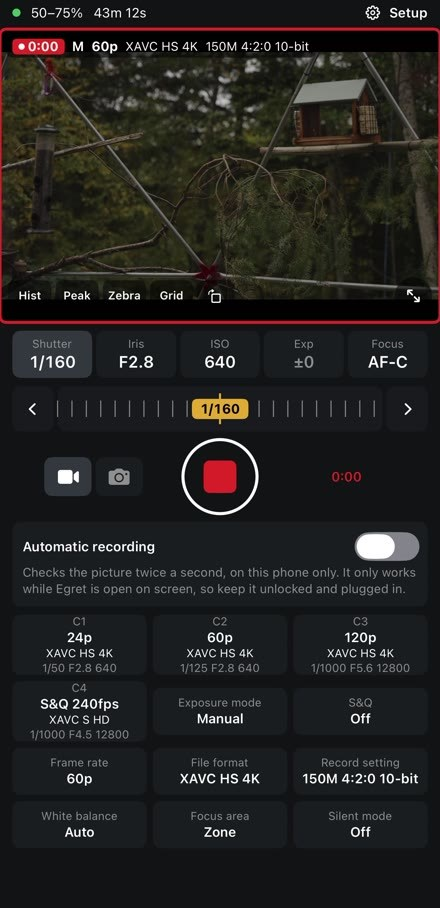
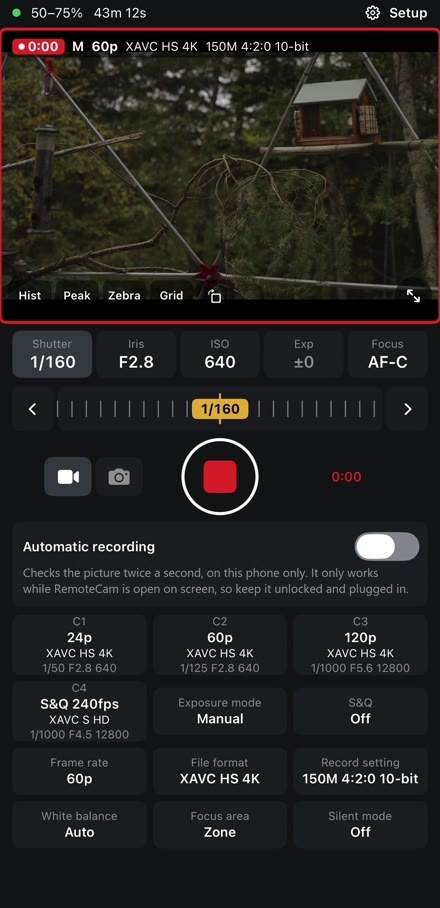
Website: RemoteCam 1.0.13, Tailscale, speed tests and real auto-recording takes
- Hero: the detected download button plus separate Download for Windows,
  Download for Mac and "iPhone: coming to TestFlight" buttons. Version 1.0.13.
- The iPhone app is "coming to TestFlight" everywhere instead of a free beta.
- Automatic recording shows three real takes from Nov 5 (animal, bird,
  person), each started and stopped by the app.
- Run it from anywhere: Tailscale ("install it on each device, log in, and
  it's automatic"), the iPhone joining the computer's camera, the 400 ft
  Ethernet setup, and phone control.
- New "How fast is the picture?" section with the measured numbers: 0.20 s on
  the same Wi-Fi, about 0.33 s over 400 ft of Ethernet, about 0.25 s a picture
  over a hotspot and Tailscale at 1 a second by default, and the Tailscale
  clock test. The old "~20 fps" claims now use the measured numbers.
- Send log, MIT licence, Sony's SDK and the A9 II confirmation in the trust
  section and specs.
- Images cleaned: the window's title bar and two iPhone screens said Egret
  and now say RemoteCam; the Tailscale frame's address is blanked.

Changed region(s): [[0.0591, 0.6167, 0.9455, 0.6784]]

diff --git a/site/index.html b/site/index.html
@@ -117,7 +117,7 @@
   <div class="wrap hero-copy">
     <a class="pill reveal" href="#iphone">
       <span class="pill-dot"></span>
-      <span>Version <span data-version></span> is out<span class="hide-sm"> · iPhone &amp; iPad beta on TestFlight</span></span>
+      <span>Version <span data-version></span> is out<span class="hide-sm"> · iPhone app coming to TestFlight</span></span>
       <svg class="ic"><use href="#i-arrow"/></svg>
     </a>
     <h1 class="reveal">Run your Sony camera<br><span class="grad">from anywhere.</span></h1>
@@ -129,7 +129,12 @@
       <a class="btn btn-ghost btn-lg" data-dl="secondary" href="#download"><span>All downloads</span></a>
       <a class="btn btn-text btn-lg" href="#watch"><svg class="ic"><use href="#i-play"/></svg><span>Watch the video</span></a>
     </div>
-    <p class="fine reveal" id="heroFine">Free and open source. No account, no subscription, no tracking.</p>
+    <div class="quick-dl reveal" aria-label="Downloads">
+      <a class="qd" data-dl="windows" href="#download"><svg class="ic"><use href="#i-windows"/></svg>Download for Windows</a>
+      <a class="qd" data-dl="macApple" href="#download"><svg class="ic"><use href="#i-apple"/></svg>Download for Mac</a>
+      <a class="qd qd-soon" href="#iphone"><svg class="ic"><use href="#i-phone"/></svg>iPhone: coming to TestFlight</a>
+    </div>
+    <p class="fine reveal" id="heroFine">Free and open source. No account, no subscription, no tracking. Tested on the A7S III.</p>
   </div>
 
   <div class="wrap hero-stage">
@@ -138,7 +143,7 @@
         <img src="assets/window.jpg" width="1760" height="946" alt="The app recording a backyard feeder: a woodpecker on the suet with the camera's tracking box around it, REC 00:02:32 at the top left, the grid and zebras on, the histogram in the corner, and the Video tab on the right with Stop, four saved setups, exposure and focus.">
       </figure>
       <div class="chip-float c1" aria-hidden="true"><span class="rec-dot"></span>REC <b class="mono" id="heroRec">00:02:32</b></div>
-      <div class="chip-float c2" aria-hidden="true"><svg class="ic"><use href="#i-wifi"/></svg>Live view · <b>~20 fps</b></div>
+      <div class="chip-float c2" aria-hidden="true"><svg class="ic"><use href="#i-wifi"/></svg>Live view · <b>0.20 s</b></div>
       <div class="chip-float c3" aria-hidden="true"><svg class="ic"><use href="#i-bird"/></svg>Bird seen · recording</div>
       <div class="chip-float c4" aria-hidden="true"><svg class="ic"><use href="#i-pin"/></svg>Across town</div>
     </div>
@@ -148,8 +153,8 @@
     <ul class="ribbon reveal" aria-label="Where it runs">
       <li><svg class="ic"><use href="#i-windows"/></svg><span><b>Windows 11</b>x64</span></li>
       <li><svg class="ic"><use href="#i-apple"/></svg><span><b>macOS 14.1+</b>Apple &amp; Intel</span></li>
-      <li><svg class="ic"><use href="#i-phone"/></svg><span><b>iPhone</b>free beta</span></li>
-      <li><svg class="ic"><use href="#i-laptop"/></svg><span><b>iPad</b>free beta</span></li>
+      <li><svg class="ic"><use href="#i-phone"/></svg><span><b>iPhone</b>coming to TestFlight</span></li>
+      <li><svg class="ic"><use href="#i-laptop"/></svg><span><b>iPad</b>coming to TestFlight</span></li>
       <li><svg class="ic"><use href="#i-camera"/></svg><span><b>Sony cameras</b>over Wi-Fi</span></li>
     </ul>
   </div>
@@ -181,7 +186,7 @@
 <!-- ============================== NUMBERS ============================== -->
 <section class="numbers" aria-label="In numbers">
   <div class="wrap nums">
-    <div class="num reveal"><b><small>~</small><span data-count="20">20</span></b><span>pictures a second over Wi-Fi on the A7S III</span></div>
+    <div class="num reveal"><b>0.20<small>s</small></b><span>from camera to screen on the same Wi-Fi</span></div>
     <div class="num reveal"><b><span data-count="240">240</span><small>fps</small></b><span>S&amp;Q slow motion, in HD</span></div>
     <div class="num reveal"><b><span data-count="9999" data-sep="1">9,999</span></b><span>photos in one time-lapse</span></div>
     <div class="num reveal"><b><span data-count="8">8</span><small>min</small></b><span>long exposures, held open on Bulb</span></div>
@@ -303,7 +308,7 @@
           </div>
         </aside>
       </div>
-      <p class="lab-foot">A model in your browser, not a camera. In the app these come from the A7S III over Wi-Fi, at around 20 pictures a second.</p>
+      <p class="lab-foot">A model in your browser, not a camera. In the app these come from the A7S III over Wi-Fi, about 8 pictures a second.</p>
     </div>
 
     <!-- Peaking: the real thing -->
@@ -569,15 +574,26 @@
     </div>
 
     <div class="trio trio-sm">
-      <div class="card flat reveal"><svg class="ic"><use href="#i-cpu"/></svg><p><b>Runs on your computer.</b> No pictures leave it.</p></div>
+      <div class="card flat reveal"><svg class="ic"><use href="#i-cpu"/></svg><p><b>Runs on your own computer.</b> No pictures leave it. The iPhone app runs its own, on the phone.</p></div>
       <div class="card flat reveal"><svg class="ic"><use href="#i-bird"/></svg><p><b>Knows birds, common mammals and people.</b> Something it doesn't know, like a squirrel, may not set it off.</p></div>
       <div class="card flat reveal"><svg class="ic"><use href="#i-shield"/></svg><p><b>Learns to ignore</b> a spot that keeps setting it off, like splashing water, for 10 minutes.</p></div>
     </div>
 
-    <figure class="shot shot-wide reveal">
-      <img src="assets/automatic-recording.jpg" width="1760" height="875" loading="lazy" alt="Automatic recording in the app: a green box labelled animal around the egret, a red recording outline, REC 00:00:09 at the top left, and Animal, 15 s and Focus on it picked on the right.">
-      <figcaption>The real thing: it has spotted the egret, started recording, and put a red outline around the picture.</figcaption>
-    </figure>
+    <div class="moments reveal">
+      <figure class="moment">
+        <img src="assets/auto-animal.jpg" width="324" height="360" loading="lazy" alt="The app recording by itself with Animal picked: REC 00:00:10, a box on an animal by the feeder, and Stop lit on the Video tab.">
+        <figcaption><b>Animal</b>Started by itself, 10 s in</figcaption>
+      </figure>
+      <figure class="moment">
+        <img src="assets/auto-bird.jpg" width="324" height="360" loading="lazy" alt="The app recording by itself with Bird picked: REC 00:01:09 and a box on a small bird at the feeder.">
+        <figcaption><b>Bird</b>Still rolling, a minute in</figcaption>
+      </figure>
+      <figure class="moment">
+        <img src="assets/auto-person.jpg" width="324" height="360" loading="lazy" alt="The app recording by itself with Person picked: a person walks up to the camera, with a green box around them and REC 00:00:05.">
+        <figcaption><b>Person</b>Walks in, recording starts</figcaption>
+      </figure>
+    </div>
+    <p class="center fine reveal">Real takes from one morning at the feeder, each started and stopped by the app. The camera is on its side here, so the picture stands upright.</p>
   </div>
 </section>
 
@@ -615,19 +631,67 @@
 
     <div class="duo">
       <article class="card glass reveal">
+        <svg class="ic ic-lg"><use href="#i-globe"/></svg>
+        <h3>From anywhere, with Tailscale</h3>
+        <p>Put the camera on your iPhone's hotspot and run it from a computer anywhere. <b>Download <a href="https://tailscale.com" rel="noopener">Tailscale</a> on each device, log in with the same account, and it's automatic.</b> Your devices find each other, with nothing to type.</p>
+        <p class="fine">Over mobile data the picture comes once a second by default, to save data: about 100 MB an hour while a computer is watching. Pick 3 or 8 a second on the phone for a smoother picture (about 280 or 750 MB an hour). The iPhone app has to stay open on screen.</p>
+      </article>
+      <article class="card glass reveal">
         <svg class="ic ic-lg"><use href="#i-phone"/></svg>
-        <h3>From your phone</h3>
-        <p>Tick <b>Allow phone control</b> in <b>Setup</b> and open the address it shows on your phone. You get the live picture, record, tap to focus, the focus ring and the camera's settings. It works on your home Wi-Fi, and from anywhere with <a href="https://tailscale.com" rel="noopener">Tailscale</a>.</p>
-        <p class="fine">Protected by an access code. The computer stays on with the app open. On an iPhone, Share › Add to Home Screen makes it a full-screen app.</p>
+        <h3>Your iPhone joins the computer's camera</h3>
+        <p>When <span class="nm"></span> on your computer is running the camera, the iPhone and iPad find it and show the camera through it, with nothing to type. Using the computer's camera means using its automatic recording too.</p>
+        <p class="fine">Or turn it round: in the iPhone app, turn on <b>Let my other devices join</b>, and an iPad or a computer runs the camera through the phone.</p>
+      </article>
+      <article class="card glass reveal">
+        <svg class="ic ic-lg"><use href="#i-desktop"/></svg>
+        <h3>400 ft away, on a cable</h3>
+        <p>Camera at the house on its Wi-Fi, computer 400 ft away at the end of a long Ethernet cable. The picture still arrives in about a third of a second, about 9 times a second.</p>
+        <p class="fine">Anything on the same network works: Wi-Fi, a cable, or both.</p>
       </article>
       <article class="card glass reveal">
         <svg class="ic ic-lg"><use href="#i-laptop"/></svg>
-        <h3>From a computer, through your iPhone</h3>
-        <p>No Wi-Fi where the camera is? Put it on your iPhone's hotspot, open the iPhone app, turn on <b>Allow control from a computer</b>, and run it from a computer somewhere else over Tailscale.</p>
-        <p class="fine">Uses mobile data: about 100, 280 or 750 MB an hour while a computer is watching, at 1, 3 or 8 pictures a second. Nothing while none is. It only works while the app stays open on the iPhone's screen.</p>
+        <h3>From your phone's browser</h3>
+        <p>Tick <b>Allow phone control</b> in <b>Setup</b> and open the address it shows on your phone. You get the live picture, record, tap to focus, the focus ring and the camera's settings, at home or over Tailscale.</p>
+        <p class="fine">Protected by an access code. The computer stays on with the app open. On an iPhone, Share › Add to Home Screen makes it a full-screen app.</p>
       </article>
     </div>
     <p class="rule reveal"><b>Two rules behind it all:</b> the camera is on one network at a time, and one device runs it while the others join in.</p>
+  </div>
+</section>
+
+<!-- ============================== SPEED ============================== -->
+<section class="section" id="speed">
+  <div class="wrap">
+    <div class="head center reveal">
+      <p class="eyebrow"><span class="dot dot-ok"></span>How fast is the picture?</p>
+      <h2>Measured with a clock, not a guess.</h2>
+      <p class="sub">An iPad shows the computer's clock. The camera films it, and the computer shows both. The gap between them is how long the picture took.</p>
+    </div>
+    <div class="speeds">
+      <article class="speed reveal">
+        <p class="speed-where"><svg class="ic"><use href="#i-wifi"/></svg>Same Wi-Fi</p>
+        <b class="speed-num">0.20<small>s</small></b>
+        <p>about 8 pictures a second</p>
+        <p class="fine">Camera and computer on the same router. Median of 24 readings.</p>
+      </article>
+      <article class="speed reveal">
+        <p class="speed-where"><svg class="ic"><use href="#i-desktop"/></svg>400 ft of Ethernet</p>
+        <b class="speed-num"><small>≈</small>0.33<small>s</small></b>
+        <p>about 9 pictures a second</p>
+        <p class="fine">Camera on the house Wi-Fi, computer at the end of the cable. A spot reading.</p>
+      </article>
+      <article class="speed reveal">
+        <p class="speed-where"><svg class="ic"><use href="#i-globe"/></svg>Hotspot + Tailscale</p>
+        <b class="speed-num"><small>≈</small>0.25<small>s</small></b>
+        <p>1 picture a second, or 3 or 8</p>
+        <p class="fine">Camera on the iPhone's hotspot in the woods, computer elsewhere. Each picture takes about 0.25 s; it comes once a second by default to save mobile data.</p>
+      </article>
+    </div>
+    <figure class="shot shot-wide reveal">
+      <img src="assets/tailscale-latency.jpg" width="1920" height="1080" loading="lazy" alt="The app on a computer running a camera in the woods over Tailscale: the computer's clock reads 14:21:46.81 above the picture, and in the picture someone holds up an iPad showing 14:21:45.77.">
+      <figcaption>The Tailscale test. This picture reached the computer just after 14:21:46.0 showing 45.77 on the iPad, so it was about 0.25 s on the way. At 1 a second it then stays on screen until the next one, which is why the clocks here are a second apart.</figcaption>
+    </figure>
+    <p class="center fine reveal"><b>The camera's own recording is always full quality.</b> These numbers are only for the preview you watch.</p>
   </div>
 </section>
 
@@ -636,14 +700,14 @@
   <div class="wrap">
     <div class="ios">
       <div class="ios-copy reveal">
-        <p class="eyebrow"><span class="dot"></span>iPhone &amp; iPad · free beta</p>
+        <p class="eyebrow"><span class="dot"></span>iPhone &amp; iPad · coming to TestFlight</p>
         <h2>No computer at all.<br>Just your phone and its hotspot.</h2>
-        <p class="sub"><span class="nm"></span> for iPhone and iPad runs the camera on its own, out where there's no Wi-Fi. It's a free beta on TestFlight, Apple's app for testing, before it comes to the App Store.</p>
+        <p class="sub"><span class="nm"></span> for iPhone and iPad runs the camera on its own, out where there's no Wi-Fi. It isn't out yet: it'll come to TestFlight, Apple's app for testing, first, and to the App Store later.</p>
         <ul class="chips">
-          <li>Live picture</li><li>Tap to focus</li><li>Exposure</li><li>Video</li><li>S&amp;Q</li><li>Photos</li><li>Burst</li><li>Time-lapse</li><li>C1 to C4</li><li>Automatic recording</li><li>Hand it to a computer</li>
+          <li>Live picture</li><li>Tap to focus</li><li>Exposure</li><li>Video</li><li>S&amp;Q</li><li>Photos</li><li>Burst</li><li>Time-lapse</li><li>C1 to C4</li><li>Automatic recording: animal, bird or person</li><li>Joins your computer's camera</li><li>Hand it to a computer</li>
         </ul>
         <div class="cta">
-          <a class="btn btn-primary btn-lg" data-link="testflight" href="#"><svg class="ic"><use href="#i-apple"/></svg><span>Join the free beta</span></a>
+          <a class="btn btn-primary btn-lg" data-link="testflight" href="#"><svg class="ic"><use href="#i-apple"/></svg><span>Coming to TestFlight</span></a>
         </div>
         <p class="fine">iOS and iPadOS 16 or newer. Photos and video stay on the camera's card. It only works while the app is open on screen, so keep the phone plugged in for long sessions. Close the app on your computer first: the camera takes one remote at a time.</p>
       </div>
@@ -675,8 +739,8 @@
       <article class="tile t-wide reveal"><svg class="ic"><use href="#i-camera"/></svg><h3>Shoot photos</h3><p>Single shots, bursts, self-timer, brackets, time-lapses and long exposures, saved to your card, your computer or both.</p></article>
       <article class="tile reveal"><svg class="ic"><use href="#i-sliders"/></svg><h3>Set up the camera</h3><p>Video format, frame rate, Super 35 crop, RAW or JPEG, white balance, audio and more, without a menu.</p></article>
       <article class="tile reveal"><svg class="ic"><use href="#i-cards"/></svg><h3>Use both cards</h3><p>See what's left on each slot, and format a card from the app. It asks first.</p></article>
-      <article class="tile t-wide reveal"><svg class="ic"><use href="#i-globe"/></svg><h3>Run it from anywhere</h3><p>Phone control at home or over Tailscale, and a computer through the iPhone app.</p></article>
-      <article class="tile t-wide reveal"><svg class="ic"><use href="#i-bird"/></svg><h3>Film wildlife</h3><p>Automatic recording starts and stops for animals, birds or people.</p></article>
+      <article class="tile t-wide reveal"><svg class="ic"><use href="#i-globe"/></svg><h3>Run it from anywhere</h3><p>Phone control at home or over Tailscale, a computer through the iPhone's hotspot, or 400 ft of cable. Install Tailscale, log in, and it's automatic.</p></article>
+      <article class="tile t-wide reveal"><svg class="ic"><use href="#i-bird"/></svg><h3>Film wildlife</h3><p>Automatic recording starts and stops for animals, birds or people, and focuses on them. It runs on your computer; no pictures leave it.</p></article>
       <article class="tile reveal"><svg class="ic"><use href="#i-battery"/></svg><h3>Stay informed</h3><p>Battery and card warnings before you run out.</p></article>
       <article class="tile reveal"><svg class="ic"><use href="#i-wifi"/></svg><h3>Stop worrying</h3><p>Reconnects by itself, and the camera keeps recording if Wi-Fi drops.</p></article>
       <article class="tile t-wide reveal"><svg class="ic"><use href="#i-send"/></svg><h3>Get help</h3><p><b>Send log to the developer</b> in Setup, one click, only when you press it.</p></article>
@@ -733,11 +797,11 @@
         <span class="you">Your device</span>
         <svg class="ic plat-ic"><use href="#i-phone"/></svg>
         <h3>iPhone &amp; iPad</h3>
-        <p class="req">iOS 16 or newer · free beta</p>
+        <p class="req">iOS 16 or newer · not out yet</p>
         <a class="btn btn-primary" data-link="testflight" href="#"><svg class="ic"><use href="#i-apple"/></svg>Join on TestFlight</a>
         <details>
           <summary>What's TestFlight?</summary>
-          <p>Apple's free app for trying apps before they reach the App Store. Install TestFlight, open the invite link, and tap <b>Install</b>. The App Store version comes later.</p>
+          <p>Apple's free app for trying apps before they reach the App Store. The iPhone app goes there first: once it's ready, install TestFlight, open the invite link and tap <b>Install</b>.</p>
         </details>
       </article>
     </div>
@@ -873,21 +937,23 @@
       <div class="card flat reveal"><svg class="ic ic-lg"><use href="#i-user-off"/></svg><h3>No account</h3><p>Nothing to sign up for. Open it and connect.</p></div>
       <div class="card flat reveal"><svg class="ic ic-lg"><use href="#i-shield"/></svg><h3>No tracking</h3><p>No analytics in the app, and none on this page either: no cookies, nothing loaded from anyone else.</p></div>
       <div class="card flat reveal"><svg class="ic ic-lg"><use href="#i-key"/></svg><h3>Your password stays put</h3><p>In Windows Credential Manager or your Mac's Keychain.</p></div>
+      <div class="card flat reveal"><svg class="ic ic-lg"><use href="#i-send"/></svg><h3>Help when you ask</h3><p><b>Send log</b> in Setup sends what went wrong, only when you press it. No passwords, photos or video.</p></div>
       <div class="card flat reveal"><svg class="ic ic-lg"><use href="#i-cpu"/></svg><h3>Detection runs locally</h3><p>The animal detector runs on your own computer or phone.</p></div>
-      <div class="card flat reveal"><svg class="ic ic-lg"><use href="#i-code"/></svg><h3>Open source</h3><p>Read every line on <a data-link="github" href="#">GitHub</a>, and build it yourself if you like.</p></div>
+      <div class="card flat reveal"><svg class="ic ic-lg"><use href="#i-code"/></svg><h3>Open source</h3><p>MIT licensed. Read every line on <a data-link="github" href="#">GitHub</a>, and build it yourself if you like.</p></div>
     </div>
 
     <details class="specs reveal">
       <summary>Specifications</summary>
       <dl>
         <dt>Computer</dt><dd>Windows 11 x64, or macOS 14.1 or newer on Apple or Intel. Windows on ARM and Linux aren't supported.</dd>
-        <dt>iPhone and iPad</dt><dd>iOS and iPadOS 16 or newer. Free beta on TestFlight.</dd>
+        <dt>iPhone and iPad</dt><dd>iOS and iPadOS 16 or newer. Coming to TestFlight first.</dd>
         <dt>Connection</dt><dd>Wi-Fi on the same network as the camera, with an optional HDMI capture card for the picture.</dd>
-        <dt>Wi-Fi live view</dt><dd>1024×576 at around 20 frames a second on the A7S III.</dd>
+        <dt>Live view</dt><dd>1024×576 on the A7S III. About 0.20 s and 8 pictures a second on the same Wi-Fi; about 0.25 s a picture over a phone hotspot and Tailscale, 1 a second by default.</dd>
         <dt>Photos to your computer</dt><dd>Full size, or a small JPEG. A full-size RAW took 4 to 12 seconds on the A7S III in our tests, depending on your network.</dd>
         <dt>Time-lapse</dt><dd>One photo every 1 to 60 seconds, up to 9,999 photos, using the camera's own interval shooting.</dd>
         <dt>Animal detection</dt><dd>Runs on your computer once a second. It knows birds, common mammals and people.</dd>
         <dt>Phone control</dt><dd>A web page on your phone, over your home network or Tailscale, protected by an access code.</dd>
+        <dt>Remote access</dt><dd>Tailscale, signed in to the same account on each device. Only Tailscale and local network addresses are answered.</dd>
         <dt>Built on</dt><dd>Sony's Camera Remote SDK v2.02.00 on Windows and Mac.</dd>
         <dt>Price</dt><dd>Free. MIT licence.</dd>
       </dl>
@@ -896,9 +962,9 @@
     <div class="honest reveal">
       <h3>Good to know</h3>
       <ul>
-        <li><b>Only tested on the A7S III.</b> The A9 II is confirmed by a user. The other cameras on the list should work, but nobody has tried them yet.</li>
+        <li><b>Tested on the A7S III.</b> An A9 II user has confirmed it works too. The other cameras on the list should work, but nobody has tried them yet.</li>
         <li><b>Warranty:</b> Sony's terms say a camera controlled through an app like this is no longer covered by its manufacturer warranty.</li>
-        <li><b><span class="nm"></span> isn't made by, endorsed by or supported by Sony.</b></li>
+        <li><b><span class="nm"></span> isn't made by, endorsed by or supported by Sony.</b> It uses Sony's Camera Remote SDK.</li>
       </ul>
     </div>
   </div>

diff --git a/site/styles.css b/site/styles.css
@@ -255,6 +255,11 @@ code { font-family: var(--mono); font-size: .86em; }
   -webkit-mask-image: radial-gradient(70% 55% at 50% 30%, #000 20%, transparent 75%);
 }
 .hero-copy { text-align: center; display: flex; flex-direction: column; align-items: center; }
+.quick-dl { display: flex; flex-wrap: wrap; justify-content: center; gap: 8px; margin-top: 18px; }
+.qd { display: inline-flex; align-items: center; gap: 8px; padding: 8px 14px; border-radius: 999px; border: 1px solid var(--line-2); background: var(--surface); color: var(--text-2); font-size: .86rem; font-weight: 550; text-decoration: none; transition: border-color .2s, color .2s; }
+.qd:hover { border-color: var(--text-2); color: var(--text); }
+.qd .ic { width: 16px; height: 16px; }
+.qd-soon { border-style: dashed; color: var(--muted); }
 .hero h1 {
   margin-top: 26px;
   font-size: clamp(2.7rem, 7.6vw, 6.2rem); font-weight: 680; letter-spacing: -.045em; line-height: .98;
@@ -741,6 +746,23 @@ input[type="range"]:focus-visible { outline: 2px solid var(--accent); outline-of
 .journey-copy p { margin-top: 10px; color: var(--text-2); }
 .duo { display: grid; grid-template-columns: 1fr 1fr; gap: 18px; margin-top: 22px; }
 .duo .fine { margin-top: 14px; }
+.duo h3 { margin-top: 14px; }
+.moments { display: grid; grid-template-columns: repeat(3, minmax(0, 1fr)); gap: 16px; margin-top: 48px; }
+.moment { margin: 0; }
+.moment img { display: block; width: 100%; height: auto; border-radius: 14px; box-shadow: var(--shadow); background: #000; }
+.moment figcaption { margin-top: 12px; font-size: .86rem; color: var(--muted); }
+.moment figcaption b { display: block; color: var(--text); font-size: 1rem; }
+.moments + .fine { margin-top: 20px; }
+.speeds { display: grid; grid-template-columns: repeat(3, minmax(0, 1fr)); gap: 16px; }
+.speed { padding: 26px 24px; border-radius: 20px; background: var(--surface); border: 1px solid var(--line); }
+.speed-where { display: flex; align-items: center; gap: 8px; color: var(--text-2); font-size: .9rem; font-weight: 600; }
+.speed-where .ic { width: 18px; height: 18px; color: var(--accent); }
+.speed-num { display: flex; align-items: baseline; gap: 4px; margin: 14px 0 6px; font: 650 clamp(2.6rem, 5vw, 3.6rem)/1 var(--sans); letter-spacing: -.04em; font-variant-numeric: tabular-nums; }
+.speed-num small { font-size: .42em; color: var(--muted); font-weight: 600; letter-spacing: 0; }
+.speed > p:not(.fine):not(.speed-where) { color: var(--text); font-weight: 550; }
+.speed .fine { margin-top: 12px; }
+#speed .shot-wide + .fine { margin-top: 22px; }
+@media (max-width: 860px) { .speeds { grid-template-columns: 1fr; } .moments { gap: 10px; } .moment figcaption { font-size: .78rem; } }
 .glass { background: color-mix(in srgb, var(--surface) 75%, transparent); backdrop-filter: blur(10px); }
 .rule { margin-top: 26px; text-align: center; color: var(--text-2); }
 @media (max-width: 860px) {

diff --git a/site/app.js b/site/app.js
@@ -65,7 +65,7 @@
     setLink(el, url);
     if (el.dataset.link === 'testflight' && !url) {
       const label = el.querySelector('span') || el;
-      label.lastChild.textContent = 'TestFlight link coming soon';
+      label.lastChild.textContent = 'Coming to TestFlight';
     }
     if (url && isExternal(url)) el.rel = 'noopener';
   });
@@ -147,7 +147,7 @@
       label(secondary, 'Windows, iPhone and iPad');
       fine.innerHTML = 'Free and open source. No account, no subscription, no tracking. <a href="' + d.macIntel + '">Older Intel Mac? Use this one.</a>';
     } else if (os === 'ios') {
-      primary.href = d.testflight || '#iphone'; label(primary, 'Get the free iPhone beta');
+      primary.href = d.testflight || '#iphone'; label(primary, d.testflight ? 'Get the iPhone app on TestFlight' : 'iPhone: coming to TestFlight');
       label(secondary, 'Windows and Mac');
     } else {
       label(primary, 'Download free');
@@ -156,6 +156,8 @@
       if (arm) fine.textContent = 'Windows on ARM isn\'t supported. It needs a Windows 11 x64 PC or a Mac.';
       else if (os === 'android' || os === 'linux') fine.textContent = 'Free for Windows 11, Mac, iPhone and iPad. Android and Linux aren\'t supported.';
     }
+    const soon = $('.qd-soon');
+    if (soon && d.testflight) { soon.href = d.testflight; soon.lastChild.textContent = 'iPhone on TestFlight'; }
     const mine = { windows: 'windows', mac: 'mac', ios: 'ios' }[arm ? '' : os];
     if (mine) { const card = $(`.plat[data-os="${mine}"]`); if (card) card.classList.add('mine'); }
   })();

diff --git a/site/config.js b/site/config.js
@@ -11,7 +11,7 @@
 window.SITE = {
   name: 'RemoteCam',
   tagline: 'Run your Sony camera from anywhere.',
-  version: '1.0.11',
+  version: '1.0.13',
 
   github: 'https://github.com/RemingtonWilcox/RemoteCam',
   releases: 'https://github.com/RemingtonWilcox/RemoteCam/releases/latest',
